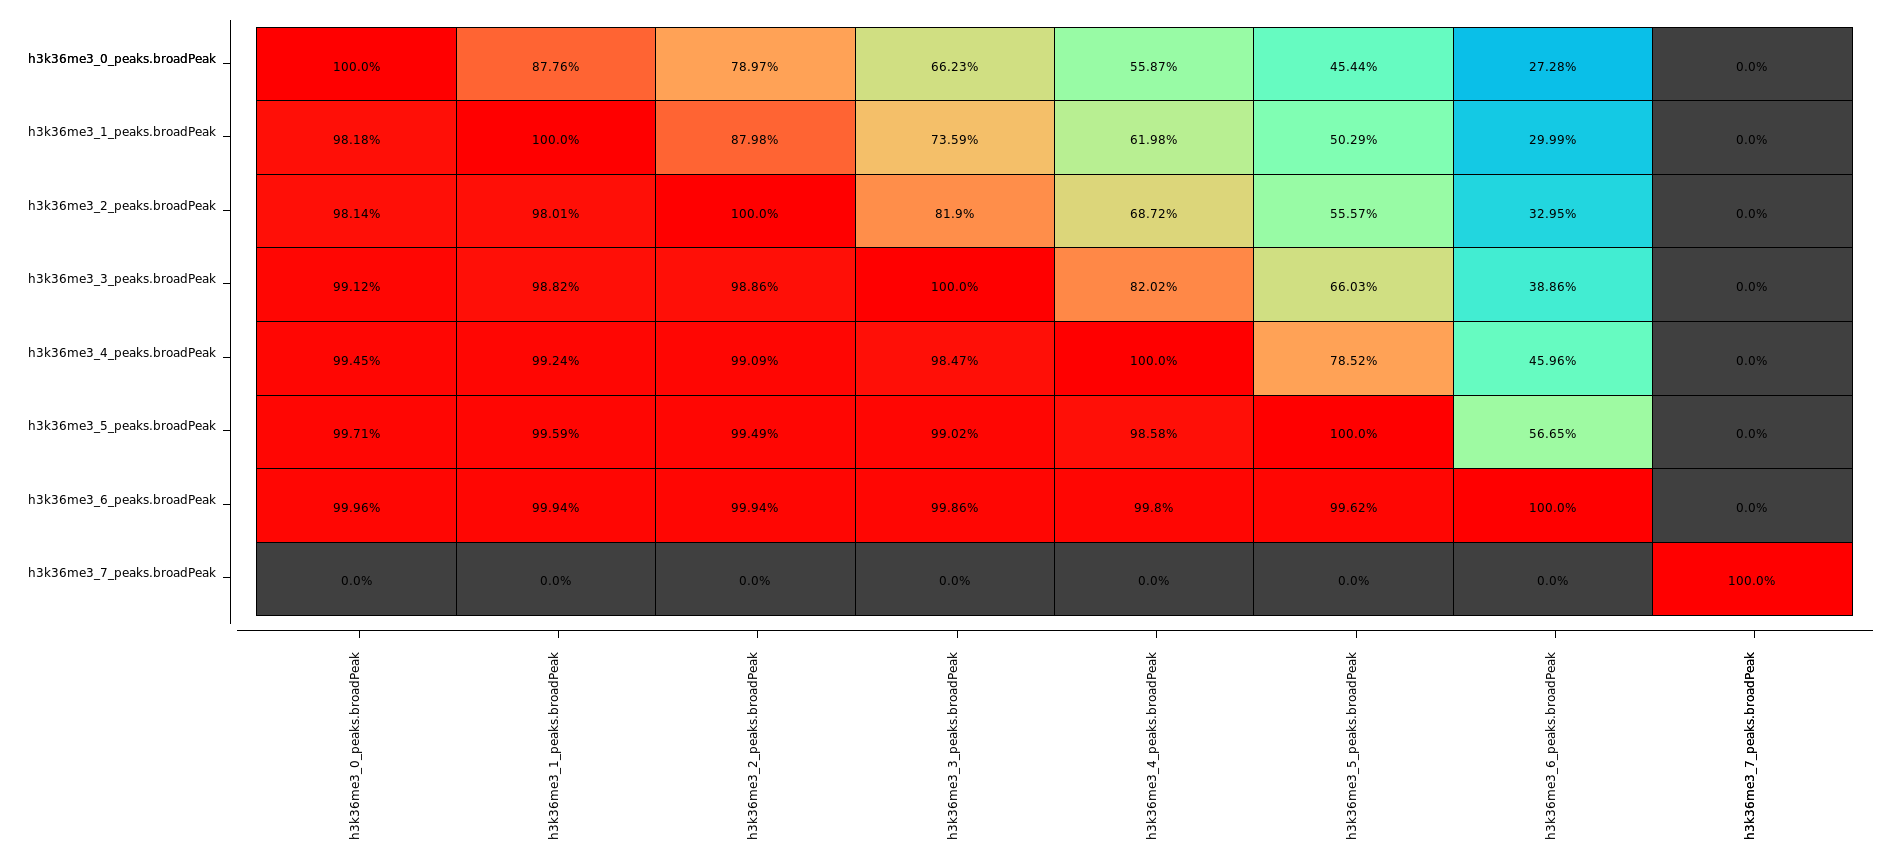
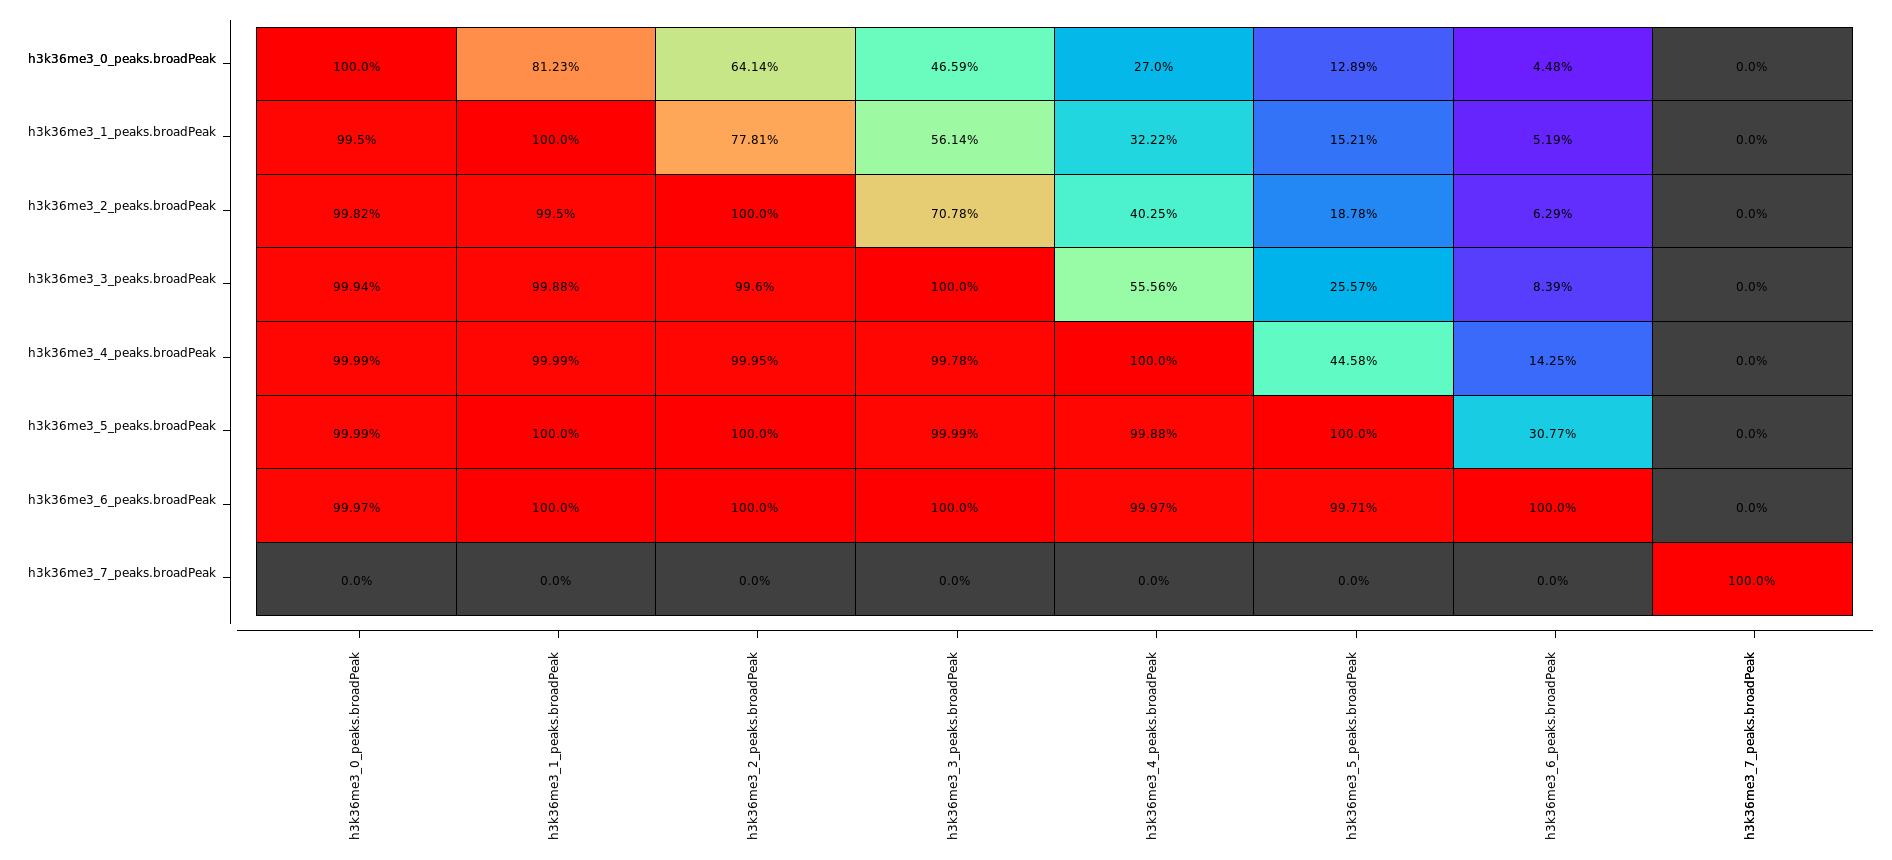
add comments and some pictures

diff --git a/SemesterProjectII/scripts/jbr_gb_data.py b/SemesterProjectII/scripts/jbr_gb_data.py
@@ -1,19 +1,23 @@
 class AlgorithmsStats:
+    """
+    This class holds the data from overlapping tracks in JBR Genome Browser.
+    The source pictures could be found in folder /pics/.
+    """
     pc_stability_data = { 
         'FDR 1E-6' : {
             'macs2' : {
-                'h3k4me1' : [100, 92.97, 86.98, 78.77, 67.57, 59.66, 50, 38.02, 20.14, 0],
-                'h3k4me3' : [100, 94.57, 89.98, 82.77, 78.17, 73.24, 67.59, 61.08, 53.67, 40.2],
-                'h3k27ac' : [100, 86.06, 74.63, 64.27, 54.16, 40.25, 33.09, 24.26, 16.46, 0],
-                'h3k27me3' : [100, 78.91, 63.21, 49.19, 36.05, 23.77, 14.67, 3.39, 0.02, 0],
-                'h3k36me3' : [100, 87.76, 78.97, 66.23, 55.87, 45.44, 27.28, 0, 0, 0]
+                'h3k4me1' : [100, 90.03, 77.89, 66.78, 54.08, 41.12, 27.28, 12.96, 3.54, 0],
+                'h3k4me3' : [100, 95.62, 91.24, 86.3, 81.51, 76.31, 70.56, 63.13, 52.4, 27.9],
+                'h3k27ac' : [100, 89.18, 79.25, 69.52, 59.73, 49.53, 38.25, 26.28, 12.73, 0],
+                'h3k27me3' : [100, 78.04, 60.18, 43.68, 26.32, 13.24, 2.79, 0.1, 0.01, 0],
+                'h3k36me3' : [100, 81.23, 64.14, 46.59, 27.0, 12.89, 4.48, 0, 0, 0]
             },
             'sicer' : {
                 'h3k4me1' : [100, 95.05, 90.03, 84.1, 77.61, 69.56, 59.33, 46.04, 29.3, 10.15],
                 'h3k4me3' : [100, 94.66, 89.96, 84.81, 79.94, 74.92, 69.87, 63.72, 56.45, 43.1],
                 'h3k27ac' : [100, 91.14, 83.89, 76.32, 68.6, 51.38, 41.91, 30.49, 14.9, 0],
                 'h3k27me3' : [100, 81.4, 67.25, 55.33, 44.43, 34.77, 26.55, 18.97, 10.56, 1.3],
-                'h3k36me3' : [100, 91.98, 85.14, 77.82, 69.3, 59.6, None, None, None, None]
+                'h3k36me3' : [100, 91.98, 85.14, 77.82, 69.3, 59.6, 49.15, 36.99, 23.0, 5.04]
             },
             'span' : {
                 'h3k4me1' : [100, 97.13, 92.97, 87.57, 83.61, 79.76, 79.39, 63.68, 53.55, 33.68],
@@ -25,22 +29,25 @@ class AlgorithmsStats:
         },
         'FDR 0.05' : {
             'macs2' : {
-                'h3k4me1' : [100, 92.97, 86.98, 78.78, 67.58, 59.67, 50.01, 38.03, 20.14, 0],
-                'h3k4me3' : [100, 94.56, 89.95, 82.72, 78.09, 73.21, 67.55, 61.05, 53.61, 40.19],
-                'h3k27ac' : [100, 86.06, 74.62, 64.27, 54.16, 40.26, 33.1, 24.26, 16.46, 0.57],
-                'h3k27me3' : [100, 78.9, 63.25, 49.19, 36.11, 25.14, 15.22, 6.33, 0.48, 0]
+                'h3k4me1' : [100, 93.18, 87.09, 80.56, 73.12, 63.53, 52.98, 36.58, 19.32, 0],
+                'h3k4me3' : [100, 94.88, 90.37, 85.33, 80.35, 74.93, 69.4, 62.79, 54.96, 40.57],
+                'h3k27ac' : [100, 86.91, 75.75, 63.52, 54.47, 45.69, 36.99, 27.8, 16.84, 0.59],
+                'h3k27me3' : [100, 79.59, 62.82, 48.61, 35.61, 22.65, 13.34, 5.94, 0.36, 0],
+                'h3k36me3' : [100, 88.36, 70.29, 60.99, 49.36, 37.36, 26.67, 0.32, 0, 0]
             },
             'sicer' : {
                 'h3k4me1' : [100, 95.46, 90.98, 86.0, 80.24, 73.59, 65.1, 54, 39.34, 19.73],
                 'h3k4me3' : [100, 95.3, 91.58, 86.89, 82.67, 77.82, 72.89, 67.82, 61.57, 51.9],
                 'h3k27ac' : [100, 91.48, 84.41, 77.45, 70.47, 62.85, 54.45, 45.39, 34.22, 19.06],
-                'h3k27me3' : [100, 83.28, 71.11, 61.14, 51.62, 42.38, 34.2, 26.21, 18.13, 6.51]
+                'h3k27me3' : [100, 83.28, 71.11, 61.14, 51.62, 42.38, 34.2, 26.21, 18.13, 6.51],
+                'h3k36me3' : [100, 92.3, 85.85, 78.94, 71.24, 62.39, 52.75, 41.01, 27.18, 9.83]
             },
             'span' : {
                 'h3k4me1' : [100, 96.23, 93.64, 90.36, 87.12, 83.58, 78.74, 73.61, 71.05, 59.04],
                 'h3k4me3' : [100, 96.28, 93.26, 90.56, 87.45, 83.54, 79.48, 74.45, 67.34, 59.51],
                 'h3k27ac' : [100, 91.82, 86.21, 82.69, 77.95, 71.22, 66.89, 59.25, 59.7, 49.74],
-                'h3k27me3' : [100, 90.86, 83.77, 75.34, 64.36, 57.27, 45.16, 35.57, 34.41, 33.07]
+                'h3k27me3' : [100, 90.86, 83.77, 75.34, 64.36, 57.27, 45.16, 35.57, 34.41, 33.07],
+                'h3k36me3' : [100, 94.7, 91.44, 88.35, 85.25, 82.62, 79.68, 78.48, 70.2, 64.13]
             }
         }
     }
@@ -48,40 +55,90 @@ class AlgorithmsStats:
     pc_similarity_data = {
         'FDR 0.05' : {
             'macs2' : {
-                'sicer' : {'h3k4me1' : [99.1, 94.78],
-                           'h3k4me3' : [93.08, 94.08],
-                           'h3k27ac' : [93.87, 86.09],
-                           'h3k27me3' : [63.56, 52.21],
-                           'h3k36me3' : [96.11, 88.38]},
-                'span' : {'h3k4me1' : [88.01, 69.21],
-                           'h3k4me3' : [80.7, 73.62],
-                           'h3k27ac' : [87.6, 68.14],
-                           'h3k27me3' : [43.76, 27.33],
-                           'h3k36me3' : [84.77, 59.34]}
+                'sicer' : {'h3k4me1' : [97.85, 93.01],
+                           'h3k4me3' : [91.8, 92.68],
+                           'h3k27ac' : [88.36, 82.86],
+                           'h3k27me3' : [59.3, 44.92],
+                           'h3k36me3' : [93.56, 77.63]},
+                'span' : {'h3k4me1' : [81.03, 67.05],
+                           'h3k4me3' : [77.18, 71.91],
+                           'h3k27ac' : [78.68, 64.8],
+                           'h3k27me3' : [40.62, 23.8],
+                           'h3k36me3' : [79.97, 49.09]}
             },
             'sicer' : {
-                'macs2' : {'h3k4me1' : [87.67, 91.41],
-                           'h3k4me3' : [93.47, 95.16],
-                           'h3k27ac' : [86.18, 92.8],
-                           'h3k27me3' : [92.88, 96.79],
-                           'h3k36me3' : [91.5, 92.86]},
+                'macs2' : {'h3k4me1' : [92.51, 92.27],
+                           'h3k4me3' : [96.18, 95.89],
+                           'h3k27ac' : [92.33, 94.32],
+                           'h3k27me3' : [93.83, 98.39],
+                           'h3k36me3' : [93.67, 96.92]},
                 'span' : {'h3k4me1' : [73.96, 64.23],
                            'h3k4me3' : [79.94, 73.88],
                            'h3k27ac' : [76.6, 68.66],
-                           'h3k27me3' : [56.06, 44.25],
+                           'h3k27me3' : [56.09, 44.25],
                            'h3k36me3' : [73.1, 56.36]}
             },
             'span' : {
-                'macs2' : {'h3k4me1' : [99.67, 100],
-                           'h3k4me3' : [99.88, 100],
-                           'h3k27ac' : [97.3, 99.72],
-                           'h3k27me3' : [99.78, 100],
-                           'h3k36me3' : [98.92, 99.97]},
+                'macs2' : {'h3k4me1' : [99.99, 100],
+                           'h3k4me3' : [99.99, 100],
+                           'h3k27ac' : [99.28, 99.93],
+                           'h3k27me3' : [99.89, 100],
+                           'h3k36me3' : [99.56, 100]},
                 'sicer' : {'h3k4me1' : [99.99, 99.98],
                            'h3k4me3' : [99.41, 99.86],
                            'h3k27ac' : [98.49, 98.84],
                            'h3k27me3' : [98.38, 99.11],
                            'h3k36me3' : [99.39, 99.79]}
+            }
+        },
+        'FDR 1E-6' : {
+            'macs2' : {
+                'sicer' : {
+                    'h3k4me1' : [69.82, 46.47],
+                    'h3k4me3' : [82.54, 88.38],
+                    'h3k27ac' : [52.92, 51.36],
+                    'h3k27me3' : [23.1, 13.59],
+                    'h3k36me3' : [41.7, 16.53]   
+                },
+                'span' : {
+                    'h3k4me1' : [68.48, 38.81],
+                    'h3k4me3' : [73.93, 69.92],
+                    'h3k27ac' : [61.76, 51.23],
+                    'h3k27me3' : [24.53, 8.15],
+                    'h3k36me3' : [40.03, 11.71]   
+                }
+            },
+            'sicer' : {
+                'macs2' : {
+                    'h3k4me1' : [99.94, 99.96],
+                    'h3k4me3' : [99.72, 98.94],
+                    'h3k27ac' : [99.96, 99.97],
+                    'h3k27me3' : [99.27, 99.6],
+                    'h3k36me3' : [99.99, 99.97]   
+                },
+                'span' : {
+                    'h3k4me1' : [96.86, 84.35],
+                    'h3k4me3' : [89.57, 79.16],
+                    'h3k27ac' : [99.32, 94.9],
+                    'h3k27me3' : [93.04, 69.56],
+                    'h3k36me3' : [96.57, 80.69]   
+                }
+            },
+            'span' : {
+                'macs2' : {
+                    'h3k4me1' : [100, 100],
+                    'h3k4me3' : [100, 100],
+                    'h3k27ac' : [100, 100],
+                    'h3k27me3' : [100, 100],
+                    'h3k36me3' : [100, 100]   
+                },
+                'sicer' : {
+                    'h3k4me1' : [97.85, 99.62],
+                    'h3k4me3' : [99.7, 99.99],
+                    'h3k27ac' : [78.08, 89.15],
+                    'h3k27me3' : [70.25, 95.27],
+                    'h3k36me3' : [89.06, 98.48]   
+                }
             }
         }
     }
@@ -98,13 +155,3 @@ class AlgorithmsStats:
     
     def get_pc_histone_similarity(self, peak_callers, pc_params, histone):
         return self.pc_similarity_data[pc_params][peak_callers[0]][peak_callers[1]][histone]
-    
-    def get_pc_histone_stability(self, peak_caller, pc_params, histone):
-        return self.pc_stability_data[pc_params][peak_caller][histone]
-    
-    def get_pc_stability(self, peak_caller, pc_params):
-        res = []
-        for h in sorted(self.pc_stability_data[pc_params][peak_caller].keys()):
-            res.append(self.get_pc_histone_stability(peak_caller, pc_params, h))
-            
-        return res

diff --git a/SemesterProjectII/scripts/result_visualization.py b/SemesterProjectII/scripts/result_visualization.py
@@ -1,0 +1,111 @@
+from project_structure import fdr_05_path, fdr_e6_path
+from jbr_gb_data import AlgorithmsStats
+from peak_dynamics import full_peak_dynamics, peak_dynamics
+
+alg_s = AlgorithmsStats()
+histones = ['h3k4me1', 'h3k4me3', 'h3k27ac', 'h3k27me3', 'h3k36me3']
+fdrs = ['FDR 1E-6', 'FDR 0.05']
+fdr_lines = ['--', '-']
+algorithms = ['macs2', 'sicer', 'span']
+alg_colors = ['b', 'r', 'g']
+
+def plot_peaks_dynamics(path_dict, ind, fdr):
+    # draw plot of changing number of peaks and average peak length 
+    ns = []
+    means = []
+    for h in ['h3k4me1', 'h3k4me3', 'h3k27ac', 'h3k27me3', 'h3k36me3']:
+        for [folder, file_end] in path_dict[h]:
+            n, m = peak_dynamics(folder, file_end, ind)
+            ns = ns + n
+            means = means + m
+    
+    x = np.asarray([i * 0.25 for i in range(len(ind))])
+    
+    plt.figure(figsize=(10, 5))
+    for i in range(0, len(histones) * len(algorithms) * len(ind), len(algorithms) * len(ind)):
+        for j in range(len(algorithms)):
+            plt.bar(x, ns[i + j * len(ind): i + (j + 1) * len(ind)], width=0.25, color=alg_colors[j])
+            x += 0.25 * len(ind)
+        x += 0.5
+    plt.legend(algorithms)
+    plt.xticks([2.5, 8.25, 14, 19.75, 25.5], ['h3k4me1', 'h3k4me3', 'h3k27ac', 'h3k27me3', 'h3k36me3'])
+    plt.title(f'Number of peaks; FDR {fdr}')
+    plt.savefig(f'../result/n_peaks_fdr_{fdr}.png')
+    plt.show()
+    
+    x = np.asarray([i * 0.25 for i in range(len(ind))])
+    plt.figure(figsize=(10, 5))
+    for i in range(0, len(histones) * len(algorithms) * len(ind), len(algorithms) * len(ind)):
+        for j in range(len(algorithms)):
+            plt.bar(x, means[i + j * len(ind): i + (j + 1) * len(ind)], width=0.25, color=alg_colors[j])
+            x += 0.25 * len(ind)
+        x += 0.5
+    plt.legend(algorithms)
+    plt.xticks([2.5, 8.25, 14, 19.75, 25.5], ['h3k4me1', 'h3k4me3', 'h3k27ac', 'h3k27me3', 'h3k36me3'])
+    plt.title(f'Average peak length; FDR {fdr}')
+    plt.savefig(f'../result/len_peaks_fdr_{fdr}.png')
+    plt.show()
+
+
+def plot_true_peaks_comparison():
+    # draw plot of changing percentage of true peaks in algorithms output
+    plt.figure(figsize=(17, 12))
+    i = 1
+    subplot_grid = (len(histones) // 3 + 1) * 100 + 30
+    for h in histones:
+        plt.subplot(subplot_grid + i)
+        i += 1
+        if i == len(histones) % 3:
+            i += 1
+            
+        for alg, c in zip(algorithms, alg_colors):
+            for fdr, linestyle in zip(fdrs, fdr_lines):
+                plt.plot([i * 10 for i in range(10)], alg_s.pc_stability_data[fdrs[0]][alg][h],
+                        linestyle=linestyle, c=c)
+       
+        plt.title(f'{h}', fontsize=20)
+        plt.ylabel('percentage of true peaks', fontsize=15)
+        plt.xlabel('percentage of noise', fontsize=15)
+    plt.savefig('../result/true_peaks_dynamics.png')
+
+
+def plot_peak_set_comparison(fdr):
+    # compare the set of peaks from different algorithms
+    plt.figure(figsize=(20, 12))
+    n = (3 - (len(histones) % 3)) % 3  + 1
+    subplot_grid = (len(histones) // 3 + 1) * 100 + 30
+    for h in histones:
+        plt.subplot(subplot_grid + n)
+        n += 1
+        x = 0
+        leg = []
+        i = 0
+
+        for pc in algorithms:
+            others = algorithms
+            others.remove(pc)
+            for other in others:
+                sim = AlgorithmsStats().get_pc_histone_similarity([pc, other], fdr, h)
+                plt.bar([x], sim[0], width=0.2, color='g')
+                plt.bar([x + 0.2], sim[1], width=0.2, color='r')
+                x += 0.5
+                leg.append(other)
+            i += 1
+            x += 0.5
+
+        plt.xticks([0, 0.625, 1.5, 2.125, 3, 3.625], leg, size=15)
+        plt.title(f'{h}', size=20)
+        plt.ylabel('percentage of peaks', size=15)
+    plt.savefig(f'../result/plot_peak_set_comparison_fdr_{fdr}.png')
+    
+
+if __name__ == "__main__":
+    ind = [i for i in range(7)]
+    for fdr, path_dict in zip(fdrs, [fdr_05_path, fdr_e6_path]):
+        plot_peaks_dynamics(path_dict, , fdr)
+        plot_peak_set_comparison(fdr)
+        
+    plot_true_peaks_comparison()
+        
+    
+        

diff --git a/SemesterProjectII/scripts/project_structure.py b/SemesterProjectII/scripts/project_structure.py
@@ -1,0 +1,40 @@
+"""
+contains the pathes to data of noisy peak calling
+files could be obtained via ./peakcalling.sh script
+"""
+
+fdr_05_path = {
+    'h3k4me1' : [['../data/h3k4me1/macs2_fdr_0.05/', '.broadPeak'],
+                 ['../data/h3k4me1/sicer_fdr_0.05/', 'summary-FDR0.05.bed'],
+                 ['../data/h3k4me1/span_fdr_0.05/', '.peak']],
+    'h3k4me3' : [['../data/h3k4me3/macs2_fdr_0.05/', '.broadPeak'],
+                 ['../data/h3k4me3/sicer_fdr_0.05/', 'summary-FDR0.05.bed'],
+                 ['../data/h3k4me3/span_fdr_0.05/', '.peak']],
+    'h3k27ac' : [['../data/h3k27ac/macs2_fdr_0.05/', '.broadPeak'],
+                 ['../data/h3k27ac/sicer_fdr_0.05/', 'summary-FDR0.05.bed'],
+                 ['../data/h3k27ac/span_fdr_0.05/', '.peak']],
+    'h3k27me3' : [['../data/h3k27me3/macs2_fdr_0.05/', '.broadPeak'],
+                  ['../data/h3k27me3/sicer_fdr_0.05/', 'summary-FDR0.05.bed'],
+                  ['../data/h3k27me3/span_fdr_0.05/', '.peak']],
+    'h3k36me3' : [['../data/h3k36me3/macs2_fdr_0.05/', '.broadPeak'],
+                  ['../data/h3k36me3/sicer_fdr_0.05/', 'summary-FDR0.05.bed'],
+                  ['../data/h3k36me3/span_fdr_0.05/', 'peak']]
+}
+
+fdr_e6_path = {
+    'h3k4me1' : [['../data/h3k4me1/h3k4me1_macs2_fdr_1e-6/', '.broadPeak'],
+                 ['../data/h3k4me1/sicer_fdr_-6/', 'summary-FDR0.000001.bed'],
+                 ['../data/h3k4me1/span_fdr_-6/', '.peak']],
+    'h3k4me3' : [['../data/h3k4me3/h3k4me3_macs2_fdr_1e-6/', '.broadPeak'],
+                 ['../data/h3k4me3/sicer_fdr_1e-6/', 'summary-FDR0.000001.bed'],
+                 ['../data/h3k4me3/span_fdr_1e-6/', '.peak']],
+    'h3k27ac' : [['../data/h3k27ac/h3k27ac_macs2_fdr_1e-6/', '.broadPeak'],
+                 ['../data/h3k27ac/sicer_fdr-6/', 'summary-FDR0.000001.bed'],
+                 ['../data/h3k27ac/span_fdr-6/', '.peak']],
+    'h3k27me3' : [['../data/h3k27me3/h3k27me3_macs2_fdr_1e-6/', '.broadPeak'],
+                  ['../data/h3k27me3/sicer_fdr_1e-6/', 'summary-FDR0.000001.bed'],
+                  ['../data/h3k27me3/span_fdr_1e-6/', '.peak']],
+    'h3k36me3' : [['../data/h3k36me3/h3k36me3_macs2_fdr_1e-6/', '.broadPeak'],
+                  ['../data/h3k36me3/sicer_fdr_1e-6/', 'summary-FDR0.000001.bed'],
+                  ['../data/h3k36me3/span_fdr_1e-6/', 'peak']]
+} 

diff --git a/SemesterProjectII/scripts/peaks_dynamics.py b/SemesterProjectII/scripts/peaks_dynamics.py
@@ -2,7 +2,7 @@ import os
 import numpy as np
 from matplotlib import pyplot as plt
 
-def peak_dynamics(files):
+def full_peak_dynamics(files):
     # takes list of files in .bed format and returns summary peak statistics for each
     n_peaks = []
     mean_len = []
@@ -36,6 +36,19 @@ def peak_dynamics(files):
     
     return n_splitted, n_united, n_peaks, mean_len
 
+
+def peak_dynamics(folder, file_end, ind):
+    # returns only statistics of number of peaks and average peak length dynamics 
+    filenames = get_filenames(folder, file_end, ind)
+    
+    ns, mean_lens = [], []
+    for f in filenames:
+        p = read_peaks(f)
+        ns.append(p.shape[0])
+        mean_lens.append(np.mean(p[:, 2] - p[:, 1]))
+    
+    return ns, mean_lens
+
 def read_peaks(fname):
     # takes file in .bed format as input and returns array of [chrom, peak_start, peak_end] 
     peaks = []
@@ -55,7 +68,7 @@ def read_peaks(fname):
     return np.asarray(peaks)
 
 def cover(peaks1, peaks2):
-    # returns array of shape (peaks1.shape[0], ) with number of peaks from peaks2 that are in peak from peaks1
+    # returns array of shape (peaks1.shape[0], ) with number of peaks from peaks2 that are embedded in peak from peaks1
     curr_chr = peaks1[0][0]
     idx1 = 0
     N1 = peaks1.shape[0]
@@ -114,3 +127,18 @@ def cover(peaks1, peaks2):
             if idx1 == -1:
                 break
     return res
+
+
+def get_filenames(folder, file_end, ind=[i for i in range(10)]):
+    filenames = []
+    for f in os.listdir(folder):
+        if f.endswith(file_end):
+            if not '10' in f:
+                filenames.append(folder + f)
+                
+    filenames = sorted(filenames)
+    filenames_ = []
+    for i in ind:
+        filenames_.append(filenames[i])
+    
+    return filenames_
